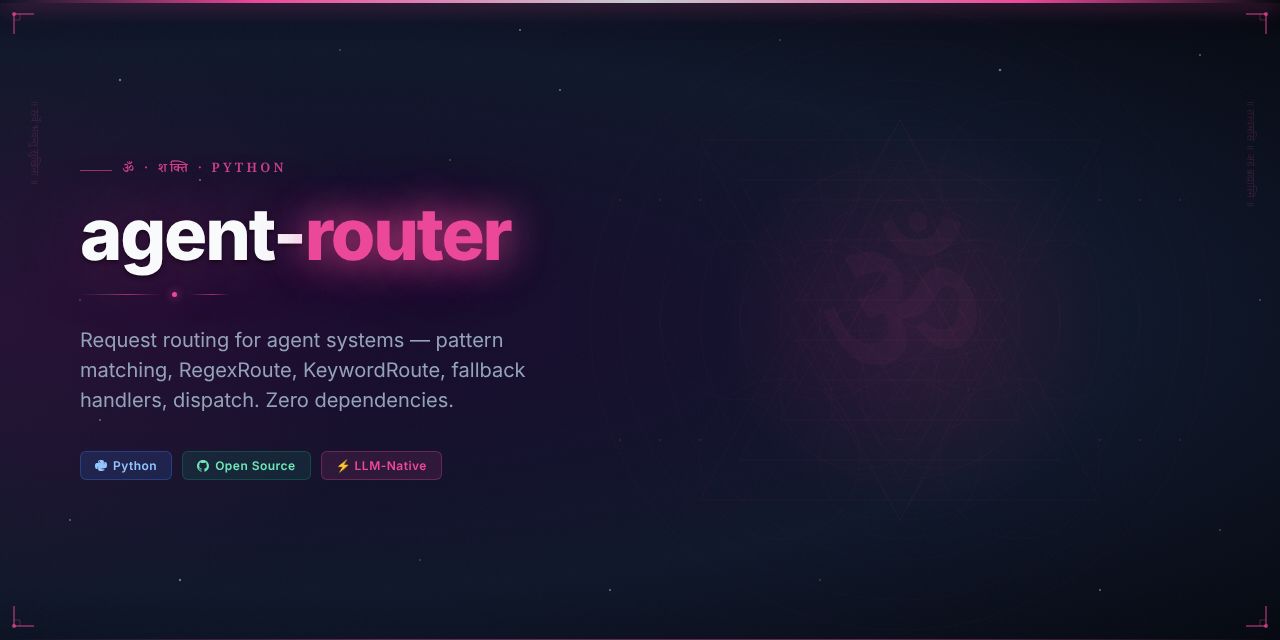
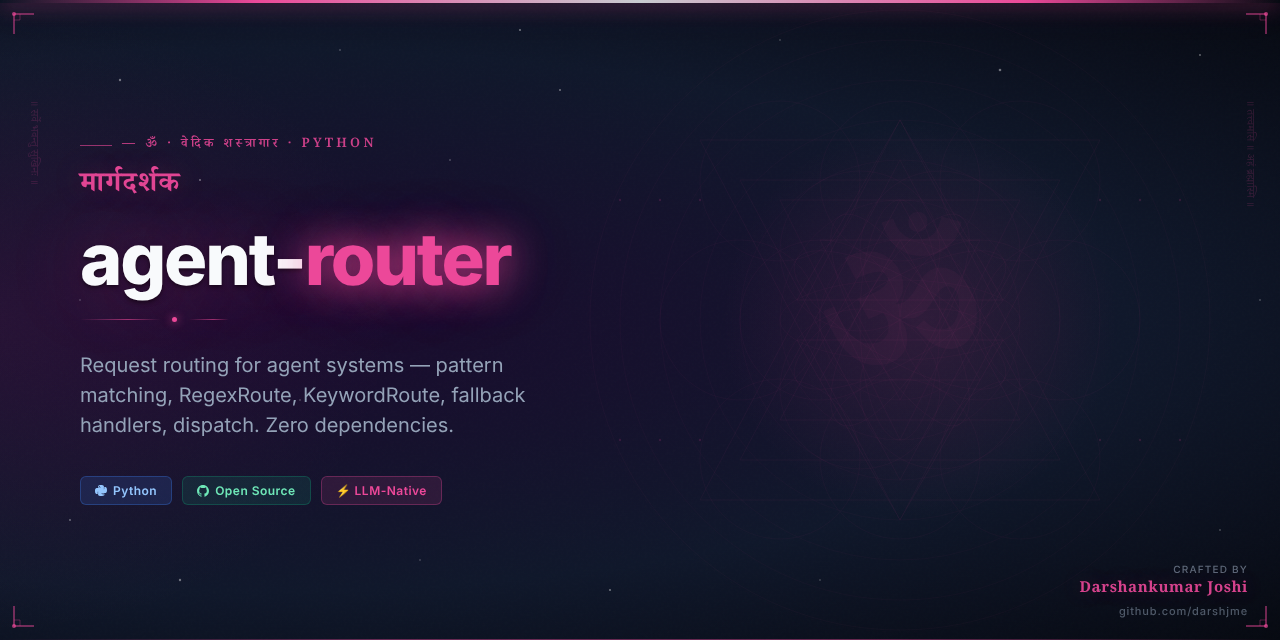
feat: add Vedic Arsenal hero image and updated README
Part of darshjme/arsenal — 100 production-grade Python libraries for LLM agents.
Vedic branding: ancient philosophy meets modern AI engineering.

diff --git a/README.md b/README.md
@@ -1,10 +1,12 @@
 <div align="center">
 
-<img src="assets/agent-router-hero.png" alt="agent-router — Vedic Arsenal" width="100%" />
+<img src="assets/agent-router-hero.png" alt="agent-router — Vedic Arsenal by Darshankumar Joshi" width="100%" />
 
 # 🪷 agent-router
 
-### *मार्गदर्शक* — Margadarshak — the divine guide, cosmic router
+<h3><em>मार्गदर्शक</em></h3>
+
+> *Margadarshak — the divine guide, cosmic router*
 
 **Request routing for agent systems — pattern matching, RegexRoute, KeywordRoute, fallback handlers, dispatch. Zero dependencies.**
 
@@ -39,6 +41,19 @@ Or clone directly:
 git clone https://github.com/darshjme/agent-router.git
 cd agent-router
 pip install -e .
+```
+
+## How It Works
+
+```mermaid
+flowchart LR
+    A[Input] --> B[agent-router]
+    B --> C{Process}
+    C -- Success --> D[Output]
+    C -- Error --> E[Handle / Retry]
+    E --> B
+    style B fill:#6b21a8,color:#fff
+    note["Router — Zero Dependencies"]
 ```
 
 ## Quick Start
@@ -90,7 +105,7 @@ MIT — use freely, build freely.
 
 <div align="center">
 
-**Built with 🪷 by [Darshankumar Joshi](https://github.com/darshjme)**
+**Built with 🪷 by [Darshankumar Joshi](https://github.com/darshjme)** · [@thedarshanjoshi](https://twitter.com/thedarshanjoshi)
 
 *"कर्मण्येवाधिकारस्ते मा फलेषु कदाचन"*
 *Your right is to action alone, never to the fruits thereof.*
